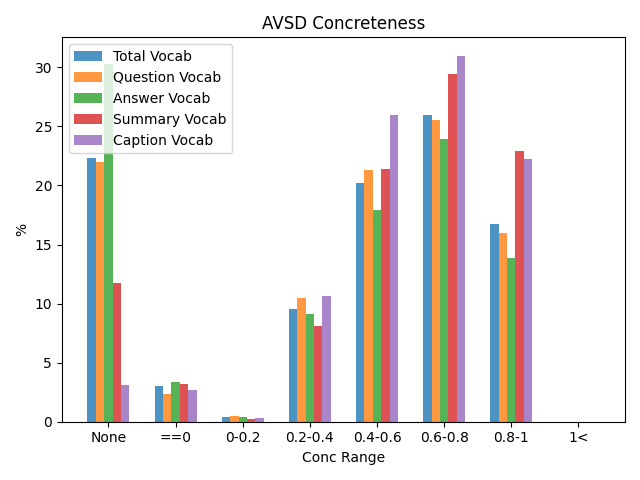
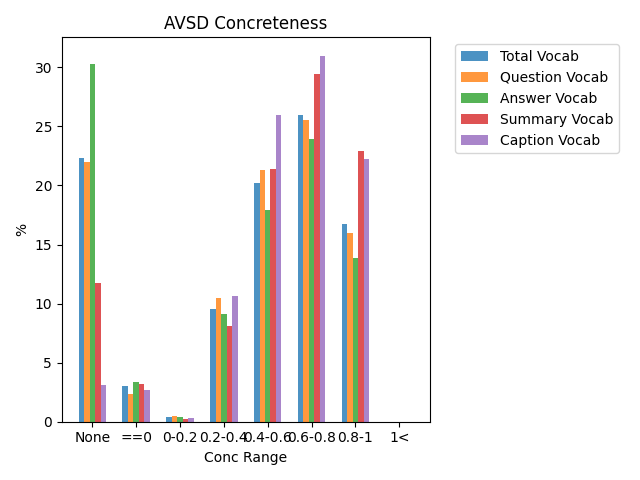
updated the AVSD plots

diff --git a/PLACEHOLDER.py b/PLACEHOLDER.py
@@ -133,7 +133,7 @@ def normdict2plot(norm_dicts, dict_labels, title="DEFAULT TITLE", xlab="DEFAULT 
     plt.ylabel(ylab)
     plt.title(title)
     plt.xticks(index + bar_width, ('None', '==0', '0-0.2', '0.2-0.4','0.4-0.6','0.6-0.8','0.8-1','1<'))
-    plt.legend(loc=0)
+    plt.legend(bbox_to_anchor=(1.05, 1))#loc=0)
     
     plt.tight_layout()
     #plt.show()
